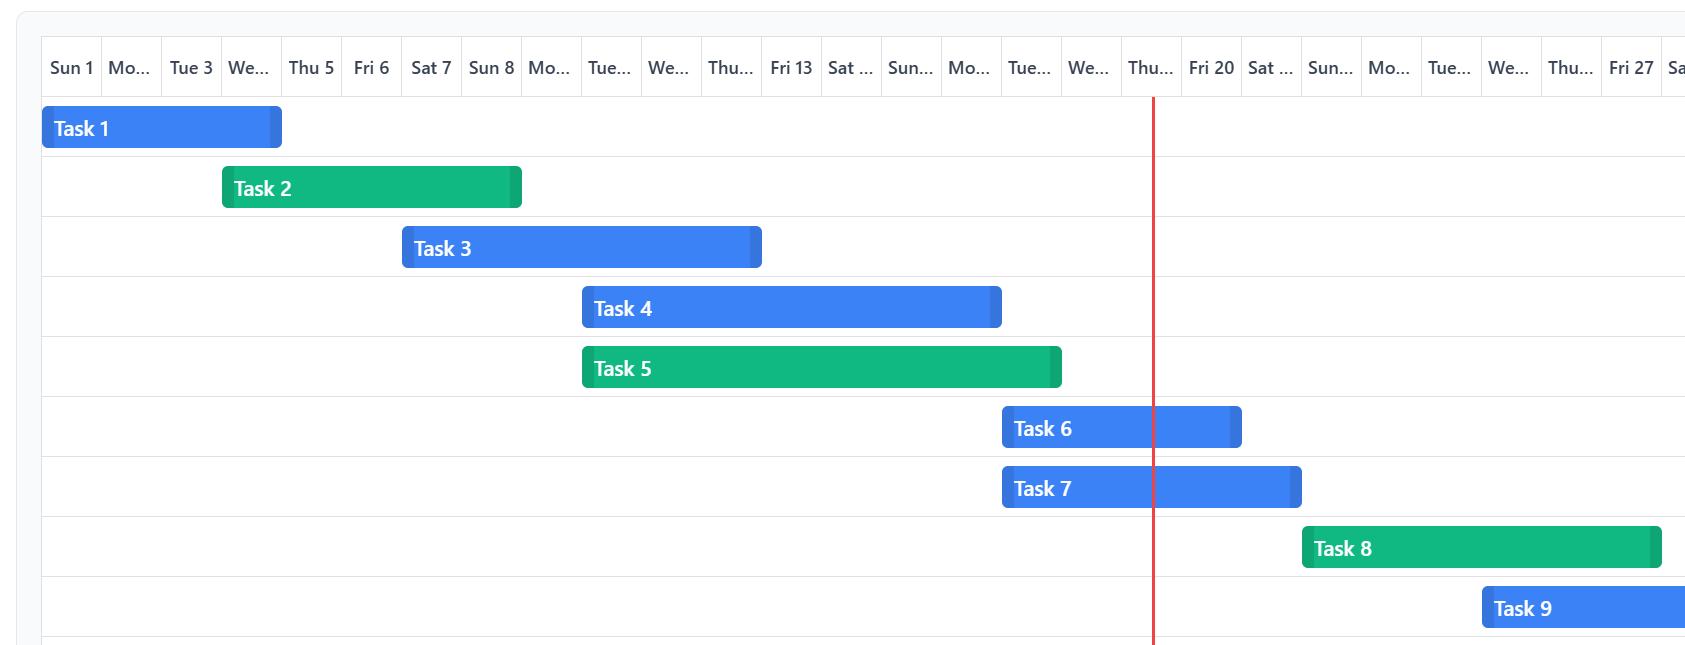
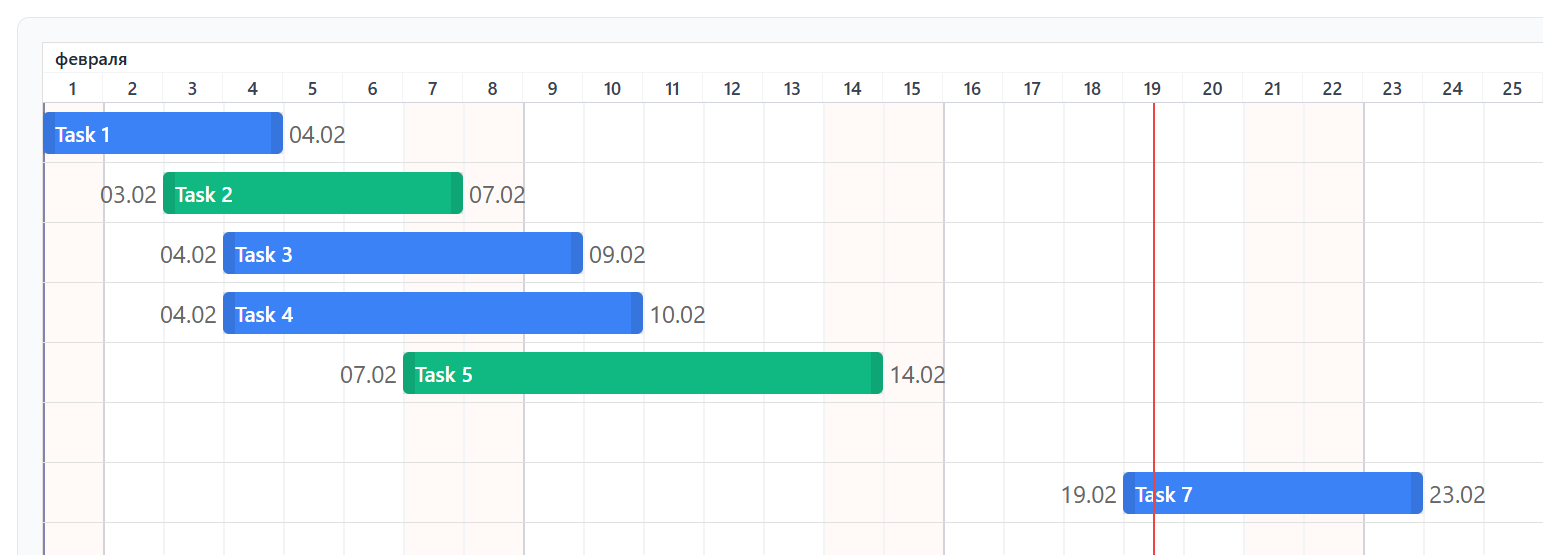
refactor(styles): adjust CSS dimensions and colors for improved UI
- Reduced Gantt row height and day width for better layout
- Updated today indicator width and weekend background color
- Modified month separator width and color for consistency
- Changed TaskRow text color for better visibility
- Updated TimeScaleHeader border to use week separator styles

diff --git a/src/app/globals.css b/src/app/globals.css
@@ -23,9 +23,9 @@ body {
   --gantt-row-hover-background: #f8f9fa;
 
   /* Dimensions */
-  --gantt-row-height: 40px;
+  --gantt-row-height: 30px;
   --gantt-header-height: 40px;
-  --gantt-day-width: 40px;
+  --gantt-day-width: 30px;
 
   /* Task Bar Styling */
   --gantt-task-bar-default-color: #3b82f6;
@@ -35,15 +35,15 @@ body {
 
   /* Today Indicator */
   --gantt-today-indicator-color: #ef4444;
-  --gantt-today-indicator-width: 2px;
+  --gantt-today-indicator-width: 1px;
 
   /* Calendar Grid - Weekend */
-  --gantt-weekend-background: #fee2e2;
+  --gantt-weekend-background: #fff9f8;
   --gantt-weekend-border: #fca5a5;
 
   /* Calendar Grid - Separators */
-  --gantt-month-separator-width: 2px;
-  --gantt-month-separator-color: #374151;
+  --gantt-month-separator-width: 1px;
+  --gantt-month-separator-color: #8383ac;
   --gantt-week-separator-width: 1px;
   --gantt-week-separator-color: #d1d5db;
   --gantt-day-line-width: 1px;

diff --git a/src/components/TimeScaleHeader/TimeScaleHeader.module.css b/src/components/TimeScaleHeader/TimeScaleHeader.module.css
@@ -6,7 +6,7 @@
   display: flex;
   flex-direction: column;
   background-color: var(--gantt-cell-background);
-  border-bottom: var(--gantt-month-separator-width, 2px) solid var(--gantt-month-separator-color, #374151);
+  border-bottom: var(--gantt-week-separator-width, 1px) solid var(--gantt-week-separator-color, #374151);
   box-sizing: border-box;
 }
 

diff --git a/test-types-import.ts b/test-types-import.ts
@@ -1,0 +1,5 @@
+import { MonthSpan, GridLine, WeekendBlock } from '@/types';
+const monthSpan: MonthSpan = { month: new Date(), days: 31, startIndex: 0 };
+const gridLine: GridLine = { x: 0, isMonthStart: true, isWeekStart: false };
+const weekendBlock: WeekendBlock = { left: 0, width: 80 };
+console.log('Types are valid');

diff --git a/src/components/TaskRow/TaskRow.module.css b/src/components/TaskRow/TaskRow.module.css
@@ -100,7 +100,7 @@
   top: 50%;
   transform: translateY(-50%);
   font-size: 1rem;
-  color: #333;
+  color: #666;
   white-space: nowrap;
   pointer-events: none;
 }

diff --git a/.planning/backlog.md b/.planning/backlog.md
@@ -7,7 +7,7 @@
 - закрашивать бледно-розовым выходные дни: в шапке и в календарной сетке
 
 Доработать полосы
-Увеличить ручки для растягивания полос: и визуально и зоны
+<!-- Увеличить ручки для растягивания полос: и визуально и зоны -->
 <!-- Убрать hover -->
 Даты начала и окончания показывать слева и справа от полосы
 Добавить процент выполнения и закрашивать его (без возможности изменять прогресс передвижением границы)
